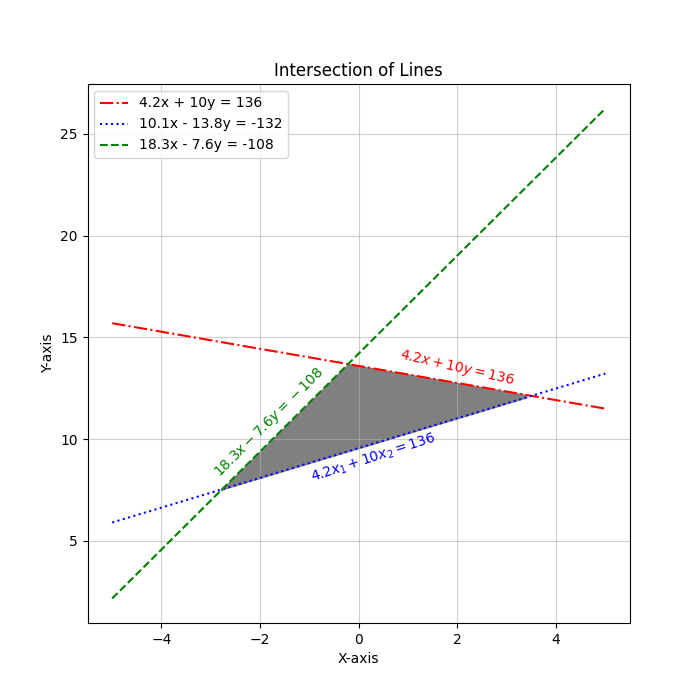
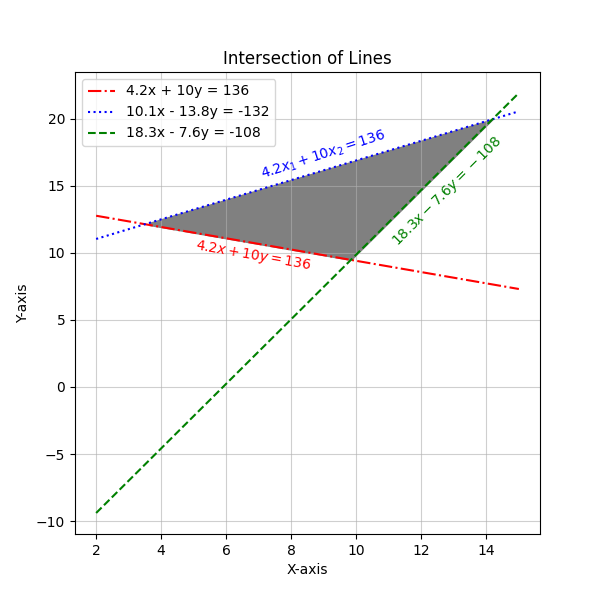
Task14. FIXED

diff --git a/Task14/main.py b/Task14/main.py
@@ -3,13 +3,13 @@ import numpy as np
 import pandas as pd
 
 # 1
-x = np.linspace(-5, 5, 400)
+x = np.linspace(2, 15, 400)
 
 y1 = (136 - 4.2 * x) / 10
 y2 = (132 + 10.1 * x) / 13.8
-y3 = (18.3 * x + 108) / 7.6
+y3 = (18.3 * x - 108) / 7.6
 
-plt.figure(figsize=(7, 7))
+plt.figure(figsize=(6, 6))
 
 plt.plot(x, y1, color='red', linestyle='dashdot', label='4.2x + 10y = 136')
 plt.plot(x, y2, color='blue', linestyle='dotted', label='10.1x - 13.8y = -132')
@@ -17,16 +17,16 @@ plt.plot(x, y3, color='green', linestyle='dashed', label='18.3x - 7.6y = -108')
 
 plt.grid(True, alpha=0.6)
 
-plt.text(0.8, y1[0] - 3, '$4.2x + 10y = 136$', color='red', rotation=-13)
-plt.text(-1, y2[0] + 2, '$4.2x_1 + 10x_2 = 136$', color='blue', rotation=18)
-plt.text(-3, y3[0] + 6, '$18.3x - 7.6y = -108$', color='green', rotation=45)
+plt.text(5, y1[0] - 4, '$4.2x + 10y = 136$', color='red', rotation=-10)
+plt.text(7, y2[0] + 4.5, '$4.2x_1 + 10x_2 = 136$', color='blue', rotation=18)
+plt.text(11, y3[0] + 20, '$18.3x - 7.6y = -108$', color='green', rotation=45)
 plt.xlabel('X-axis')
 plt.ylabel('Y-axis')
 plt.title('Intersection of Lines')
 
 plt.legend()
 
-plt.fill_between(x, y2, np.minimum(y1, y3), where=(x < 3.4) & (x > -2.8), color='grey')
+plt.fill_between(x, y2, np.maximum(y1, y3), where=(x < 14.2) & (x > 3.6), color='grey')
 
 plt.show()
 
